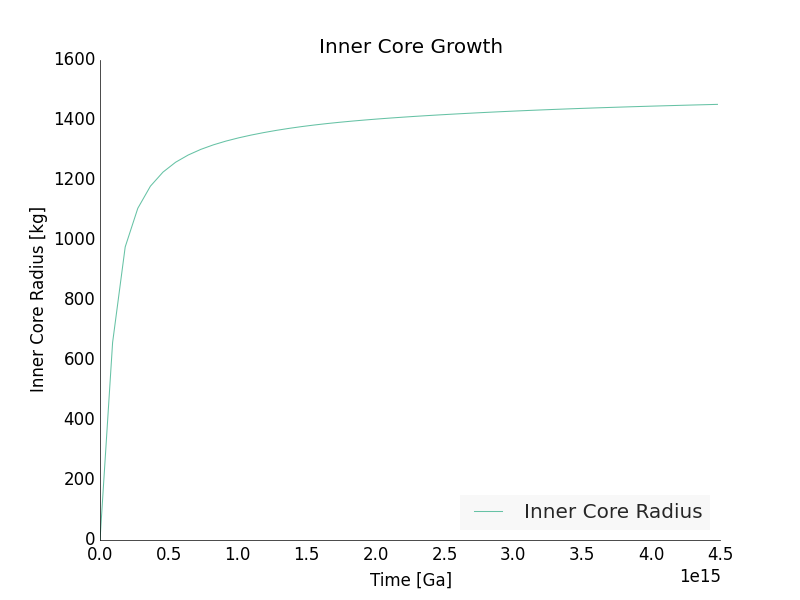
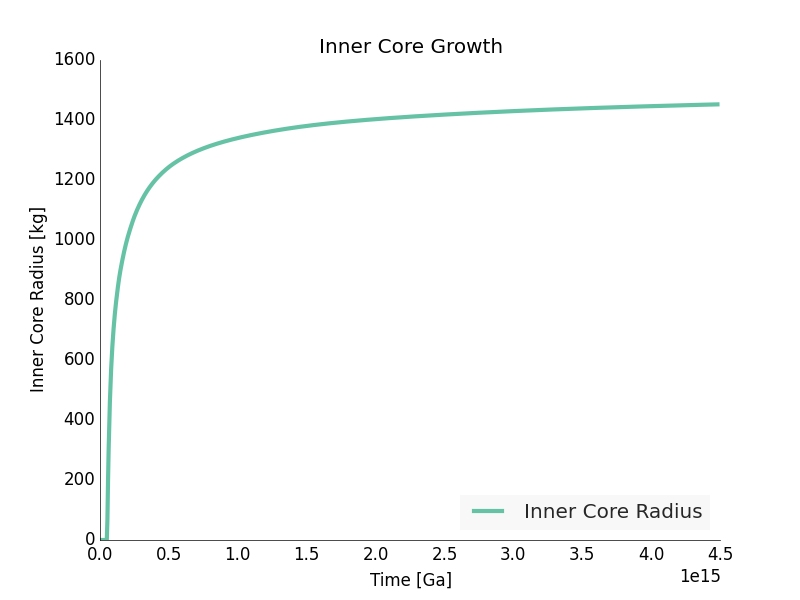
Updated figures

diff --git a/parameterized_convection/stevenson.py b/parameterized_convection/stevenson.py
@@ -290,7 +290,7 @@ mercury = planetary_energetics.Planet( [ realisticCoreLayer( 0.0, 2020.0e3, mode
 times = np.linspace( 0., Julian_year*np.pi*1.e7)
 
 T_excess = 800.
-times = np.linspace(0.0, 4.5*1.e9*Julian_year)
+times = np.linspace(0.0, 4.5*1.e9*Julian_year, 1000)
 T_mantle_initial = 1800.
 
 
@@ -322,7 +322,7 @@ plt.xlabel('Time [Ga]')
 plt.ylabel('Temperature [K]')
 plt.title("Thermal Evolution Mercury")
 ppl.legend(loc=1)
-plt.savefig('thermal_evolution.png')
+plt.savefig('../poster/thermal_evolution.png')
 
 thermal_energy_change, gravitational_energy_release, latent_heat, total_effective_heat_capacity,\
             radius_inner_core = model1.get_effective_core_heat_capacity()
@@ -339,12 +339,12 @@ for temp in y[:,1]:
     total.append(-total_effective_heat_capacity(temp)*1.e-26)
 
 plt.figure()
-ppl.plot(t,radius, label="Inner Core Radius")
+ppl.plot(t,radius, lw=3, label="Inner Core Radius")
 plt.xlabel('Time [Ga]')
 plt.ylabel('Inner Core Radius [kg]')
 plt.title("Inner Core Growth")
 ppl.legend(loc=4)
-plt.savefig('inner_core_growth.png')
+plt.savefig('../poster/inner_core_growth.png')
 
 plt.figure()
 ppl.plot(t,grav,  label="Gravitational Energy Release")
